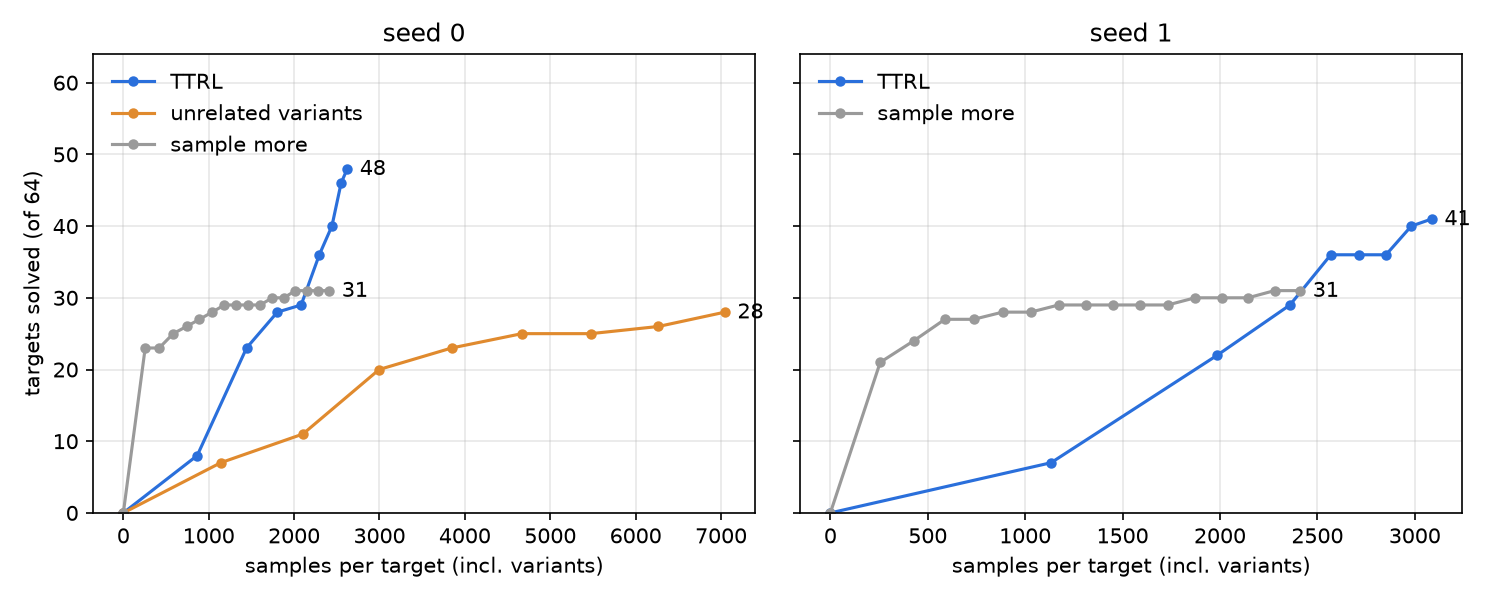
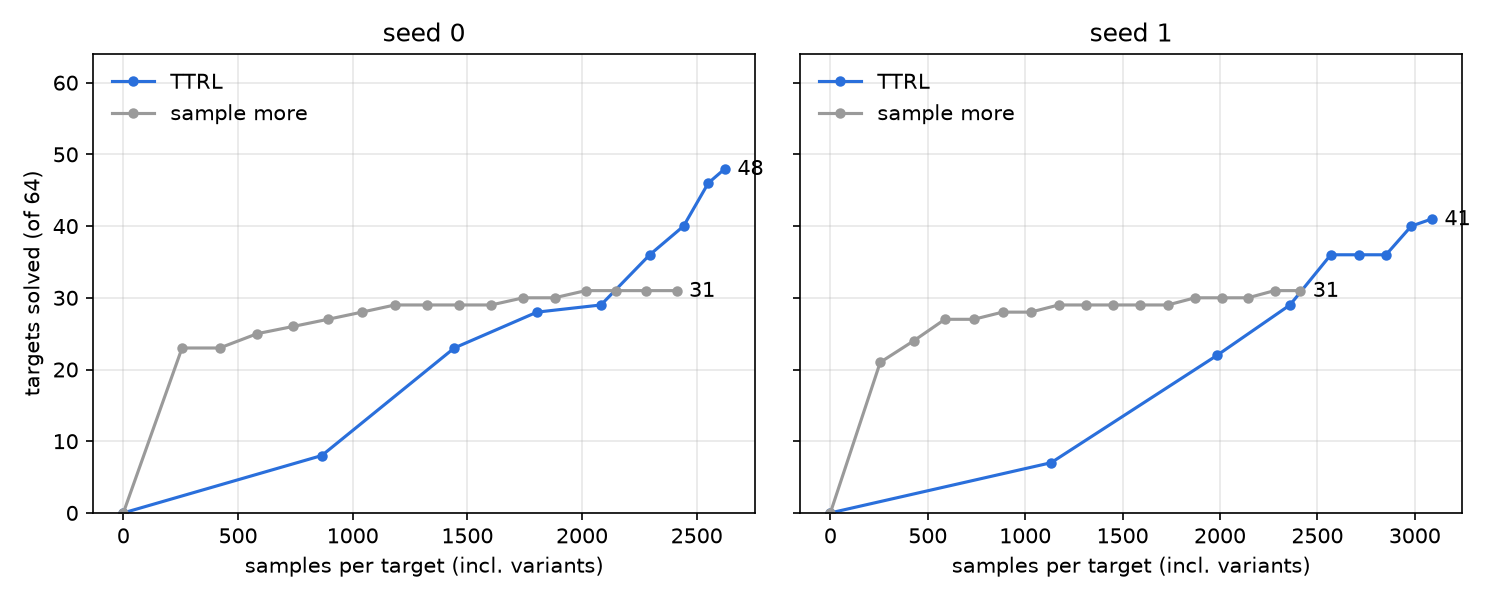
combined-model: publish edits

diff --git a/blog/combined-model/index.html b/blog/combined-model/index.html
@@ -490,7 +490,7 @@ one variant with a proof.</li>
 or an implication. Many are mastered at once and leave the pool.</li>
 </ul>
 <p><strong>TTRL solves 48 of 64. Sampling more solves 31.</strong> Numbers below are seed 0 unless marked.</p>
-<p><img src="charts/ttrl-dev64.png" alt="Targets solved vs samples per target: TTRL, unrelated-variant TTRL and sampling more, two seeds"></p>
+<p><img src="charts/ttrl-dev64.png" alt="Targets solved vs samples per target: TTRL and sampling more, two seeds"></p>
 <ul>
 <li><strong>The budgets are matched.</strong>
 <ul>
@@ -502,8 +502,7 @@ which 3 minutes were fine-tuning.</li>
 </li>
 <li><strong>TTRL solves everything the control does, plus 17 more.</strong> The control solves nothing TTRL misses.</li>
 <li><strong>TTRL barely samples the targets themselves.</strong> Of its 167,872 samples, only 4,832 were on
-targets: 75 per target, against the control’s 2,412. The rest went to variants, and training on
-those made the targets solvable.</li>
+targets: 75 per target, against the control’s 2,412. The rest went to variants.</li>
 <li><strong>The gain is on the long theorems.</strong> At 10 lines TTRL solves all 25 targets; the control
 solves 10. At 11 or more lines TTRL gets 8 of 16, the control 6.</li>
 <li><strong>It starts slower and doesn’t flatten.</strong> For the first ~2,000 samples per target TTRL is behind,
@@ -522,60 +521,6 @@ budget.</li>
 </ul>
 </li>
 </ul>
-<h3 id="is-it-the-variants-or-just-more-rl">Is it the variants, or just more RL? <a class="heading-anchor" href="#is-it-the-variants-or-just-more-rl" aria-label="Link to this section">#</a></h3>
-<p><strong>It’s the variants.</strong> The same loop on seed 0, with the variants swapped for those of 64 <em>other</em>
-unsolved dev theorems: 4,499 variants from similar lengths, the same band and the same updates. The
-64 targets are sampled exactly as in TTRL, 16 per round.</p>
-<table>
-<thead>
-<tr>
-<th>round</th>
-<th>1</th>
-<th>2</th>
-<th>3</th>
-<th>4</th>
-<th>5</th>
-<th>6</th>
-<th>7</th>
-<th>8</th>
-</tr>
-</thead>
-<tbody>
-<tr>
-<td>own variants (TTRL)</td>
-<td>8</td>
-<td>23</td>
-<td>28</td>
-<td>29</td>
-<td>36</td>
-<td>40</td>
-<td>46</td>
-<td>48</td>
-</tr>
-<tr>
-<td>unrelated variants</td>
-<td>7</td>
-<td>11</td>
-<td>20</td>
-<td>23</td>
-<td>25</td>
-<td>25</td>
-<td>26</td>
-<td>28</td>
-</tr>
-</tbody>
-</table>
-<ul>
-<li>Generic RL does help: 7 → 28 on targets it never trained on.</li>
-<li>It ends below plain sampling (31). Against TTRL it used 2.7× the samples, 5× the training records
-(232k vs 44k) and 79 minutes of A40 time (TTRL: 29).</li>
-<li>It solves nothing that TTRL misses.</li>
-<li>Its pool never shrinks, because solving a target retires no unrelated variant. That is why it
-costs so much more.</li>
-</ul>
-<p>Generic RL on similar theorems doesn’t beat sampling more. So TTRL’s whole lead over sampling more
-comes from practising on problems built from the target. That includes the targets themselves, and
-that turns out to be most of it: see “At scale” below.</p>
 <h3 id="whats-left">What’s left <a class="heading-anchor" href="#whats-left" aria-label="Link to this section">#</a></h3>
 <p>16 targets are still unsolved. For 9 of them every variant has been solved at least once, and most
 are mastered. la_transfer_1167, for one, has all 19 variants mastered, and the target is still
@@ -588,7 +533,7 @@ the model’s own pieces. Training on it teaches the long proof. This wasn’t i
 <h3 id="caveats">Caveats <a class="heading-anchor" href="#caveats" aria-label="Link to this section">#</a></h3>
 <ul>
 <li><strong>Two seeds, one run each, mostly the same 64 dev targets.</strong> +17 and +10 over sampling more; seed
-1’s lead at exactly matched samples is smaller. The unrelated-variants arm ran on seed 0 only.</li>
+1’s lead at exactly matched samples is smaller.</li>
 <li><strong>Dev theorems.</strong> The 64 were picked by failing c005 at 64 plain samples on this dev split. Every
 knob was set before the run and none was tuned, but the real test is the held-out theorems every
 inference method missed. At 1,024 attempts about 90% of those stay unsolved.</li>
@@ -598,16 +543,15 @@ samples” was a weak filter for hard. The comparison is still like for like.</l
 section above use T 0.8.</li>
 </ul>
 <p>Code: <code>code/experiments/current/ttrl/</code> on branch <code>robbie-experiments</code>. Per-item results live in the
-checkout’s <code>artifacts/ttrl/</code>: <code>dev64_ttrl</code>, <code>dev64_control</code>, <code>dev64_unrelated</code>, <code>s1_ttrl</code>,
-<code>s1_control</code>.</p>
+checkout’s <code>artifacts/ttrl/</code>: <code>dev64_ttrl</code>, <code>dev64_control</code>, <code>s1_ttrl</code>, <code>s1_control</code>.</p>
 <h3 id="at-scale-every-dev-failure-up-to-5-the-pipelines-compute">At scale: every dev failure, up to 5× the pipeline’s compute <a class="heading-anchor" href="#at-scale-every-dev-failure-up-to-5-the-pipelines-compute" aria-label="Link to this section">#</a></h3>
 <p>The 64-target runs leave two questions:</p>
 <ol>
 <li><strong>How much does TTRL add to the real metric, per unit of compute?</strong></li>
 <li><strong>Is it the variants, or just being allowed to train on the eval theorems at all?</strong> Plain expert
 iteration on the eval statements, with no variants, might buy most of the gain. If it does,
-“test-time RL helps” is the headline, not “variants help”. Neither run so far separates the two:
-the control never trains, and the unrelated-variants arm never trains on the targets.</li>
+“test-time RL helps” is the headline, not “variants help”. The 64-target runs can’t separate the
+two: the control never trains.</li>
 </ol>
 <p><strong>Setup.</strong></p>
 <ul>
@@ -722,9 +666,8 @@ EI solves 21, 29 and 2 that TTRL doesn’t. Together they leave 12, 1 and 19 uns
 <li>Sampling more flattens early, as before: +116 at 5x, nearly all of it by 2x.</li>
 </ul>
 <p>What this means for the earlier sections: the 64-target result (“TTRL 48, sampling more 31”) stands,
-but its explanation doesn’t. The unrelated-variants arm showed that variants of <em>other</em> theorems
-don’t help. It never asked whether the targets alone would do. They do, at least when there are ~200
-of them.</p>
+but it doesn’t show that the variants did the work. That run had no arm that trained on the targets
+alone. Targets alone do most of it, at least when there are ~200 of them.</p>
 <h4 id="what-each-arm-does-round-by-round">What each arm does, round by round <a class="heading-anchor" href="#what-each-arm-does-round-by-round" aria-label="Link to this section">#</a></h4>
 <p>Seed 0, from the logs. All three arms start from the same weights, the same 193 targets and the same
 sampler.</p>

diff --git a/posts/combined-model/FINAL_POST.md b/posts/combined-model/FINAL_POST.md
@@ -267,7 +267,7 @@ directly: does the model solve variants of targets it can't solve?
 
 **TTRL solves 48 of 64. Sampling more solves 31.** Numbers below are seed 0 unless marked.
 
-![Targets solved vs samples per target: TTRL, unrelated-variant TTRL and sampling more, two seeds](charts/ttrl-dev64.png)
+![Targets solved vs samples per target: TTRL and sampling more, two seeds](charts/ttrl-dev64.png)
 
 - **The budgets are matched.**
   - TTRL used 2,623 samples per target (target plus its variants) and 29 minutes on one A40, of
@@ -276,8 +276,7 @@ directly: does the model solve variants of targets it can't solve?
   - At 2,443 samples per target, just past the control's full budget, TTRL stood at 40.
 - **TTRL solves everything the control does, plus 17 more.** The control solves nothing TTRL misses.
 - **TTRL barely samples the targets themselves.** Of its 167,872 samples, only 4,832 were on
-  targets: 75 per target, against the control's 2,412. The rest went to variants, and training on
-  those made the targets solvable.
+  targets: 75 per target, against the control's 2,412. The rest went to variants.
 - **The gain is on the long theorems.** At 10 lines TTRL solves all 25 targets; the control
   solves 10. At 11 or more lines TTRL gets 8 of 16, the control 6.
 - **It starts slower and doesn't flatten.** For the first ~2,000 samples per target TTRL is behind,
@@ -292,28 +291,6 @@ directly: does the model solve variants of targets it can't solve?
   - At matched samples TTRL is between 29 and 36; the extra 10 came mostly after the control's
     budget.
   - The control is flat by then: 29 → 31 over its last 1,200 samples per target.
-
-### Is it the variants, or just more RL?
-
-**It's the variants.** The same loop on seed 0, with the variants swapped for those of 64 _other_
-unsolved dev theorems: 4,499 variants from similar lengths, the same band and the same updates. The
-64 targets are sampled exactly as in TTRL, 16 per round.
-
-| round               | 1   | 2   | 3   | 4   | 5   | 6   | 7   | 8   |
-| ------------------- | --- | --- | --- | --- | --- | --- | --- | --- |
-| own variants (TTRL) | 8   | 23  | 28  | 29  | 36  | 40  | 46  | 48  |
-| unrelated variants  | 7   | 11  | 20  | 23  | 25  | 25  | 26  | 28  |
-
-- Generic RL does help: 7 → 28 on targets it never trained on.
-- It ends below plain sampling (31). Against TTRL it used 2.7× the samples, 5× the training records
-  (232k vs 44k) and 79 minutes of A40 time (TTRL: 29).
-- It solves nothing that TTRL misses.
-- Its pool never shrinks, because solving a target retires no unrelated variant. That is why it
-  costs so much more.
-
-Generic RL on similar theorems doesn't beat sampling more. So TTRL's whole lead over sampling more
-comes from practising on problems built from the target. That includes the targets themselves, and
-that turns out to be most of it: see "At scale" below.
 
 ### What's left
 
@@ -330,7 +307,7 @@ the model's own pieces. Training on it teaches the long proof. This wasn't in th
 ### Caveats
 
 - **Two seeds, one run each, mostly the same 64 dev targets.** +17 and +10 over sampling more; seed
-  1's lead at exactly matched samples is smaller. The unrelated-variants arm ran on seed 0 only.
+  1's lead at exactly matched samples is smaller.
 - **Dev theorems.** The 64 were picked by failing c005 at 64 plain samples on this dev split. Every
   knob was set before the run and none was tuned, but the real test is the held-out theorems every
   inference method missed. At 1,024 attempts about 90% of those stay unsolved.
@@ -340,8 +317,7 @@ the model's own pieces. Training on it teaches the long proof. This wasn't in th
   section above use T 0.8.
 
 Code: `code/experiments/current/ttrl/` on branch `robbie-experiments`. Per-item results live in the
-checkout's `artifacts/ttrl/`: `dev64_ttrl`, `dev64_control`, `dev64_unrelated`, `s1_ttrl`,
-`s1_control`.
+checkout's `artifacts/ttrl/`: `dev64_ttrl`, `dev64_control`, `s1_ttrl`, `s1_control`.
 
 ### At scale: every dev failure, up to 5× the pipeline's compute
 
@@ -350,8 +326,8 @@ The 64-target runs leave two questions:
 1. **How much does TTRL add to the real metric, per unit of compute?**
 2. **Is it the variants, or just being allowed to train on the eval theorems at all?** Plain expert
    iteration on the eval statements, with no variants, might buy most of the gain. If it does,
-   "test-time RL helps" is the headline, not "variants help". Neither run so far separates the two:
-   the control never trains, and the unrelated-variants arm never trains on the targets.
+   "test-time RL helps" is the headline, not "variants help". The 64-target runs can't separate the
+   two: the control never trains.
 
 **Setup.**
 
@@ -413,9 +389,8 @@ pipeline's own pretrain + RL compute:
 - Sampling more flattens early, as before: +116 at 5x, nearly all of it by 2x.
 
 What this means for the earlier sections: the 64-target result ("TTRL 48, sampling more 31") stands,
-but its explanation doesn't. The unrelated-variants arm showed that variants of _other_ theorems
-don't help. It never asked whether the targets alone would do. They do, at least when there are ~200
-of them.
+but it doesn't show that the variants did the work. That run had no arm that trained on the targets
+alone. Targets alone do most of it, at least when there are ~200 of them.
 
 #### What each arm does, round by round
 
